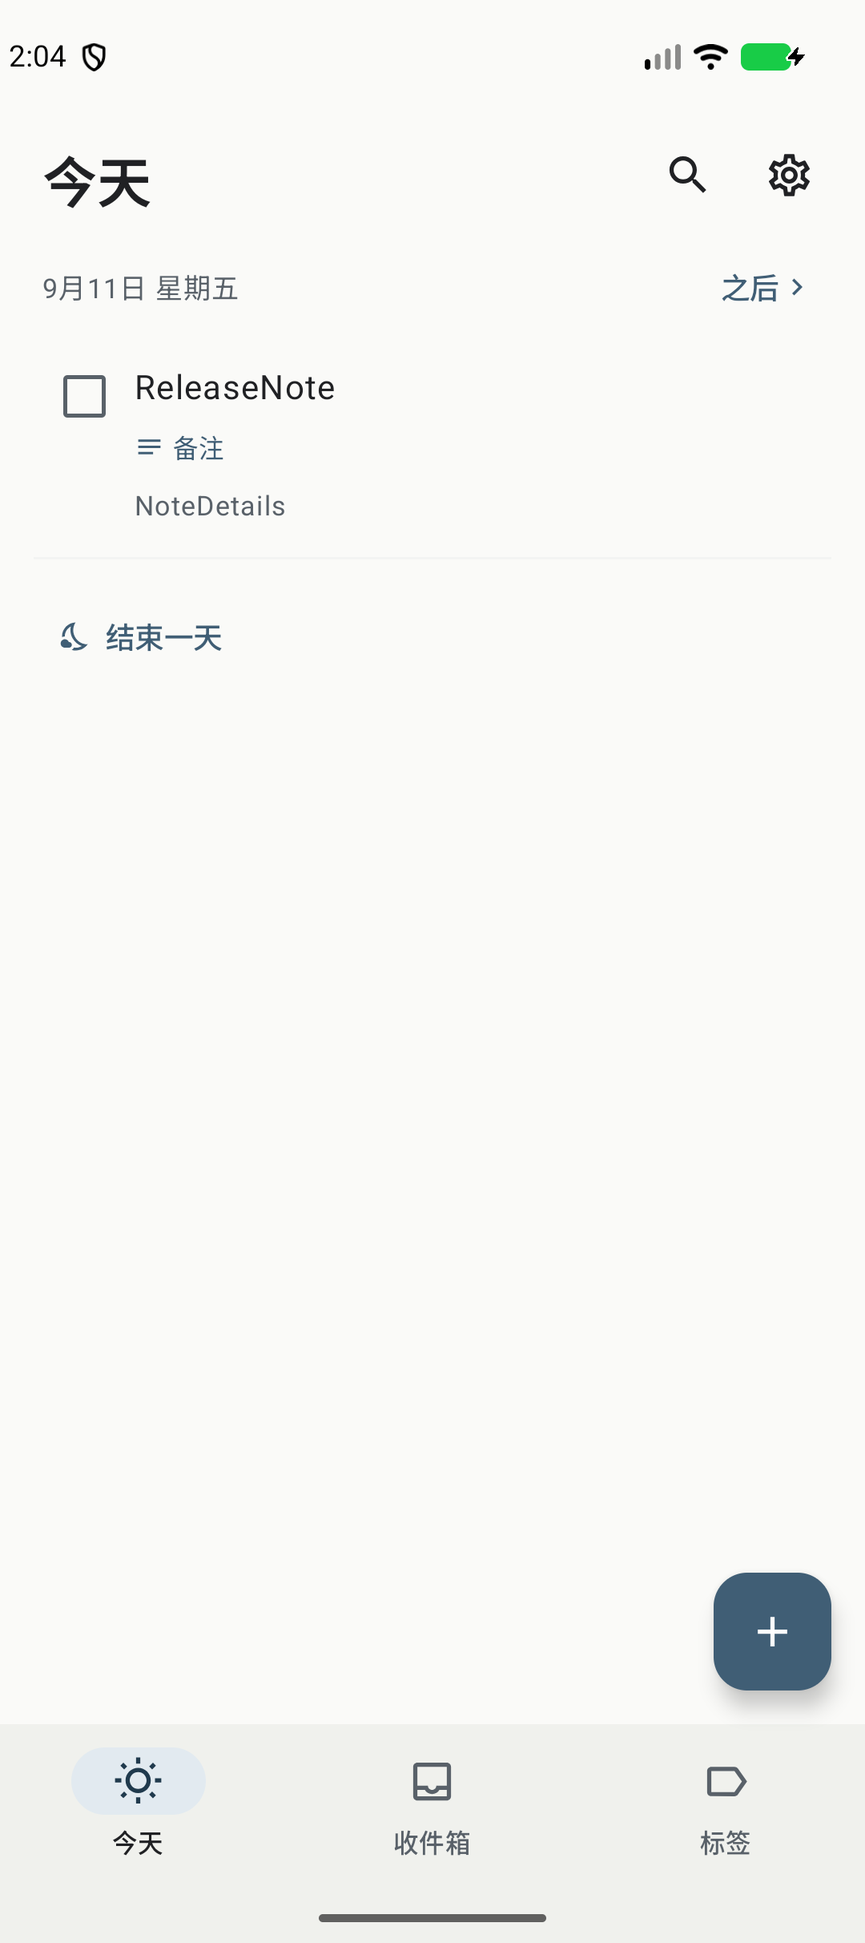
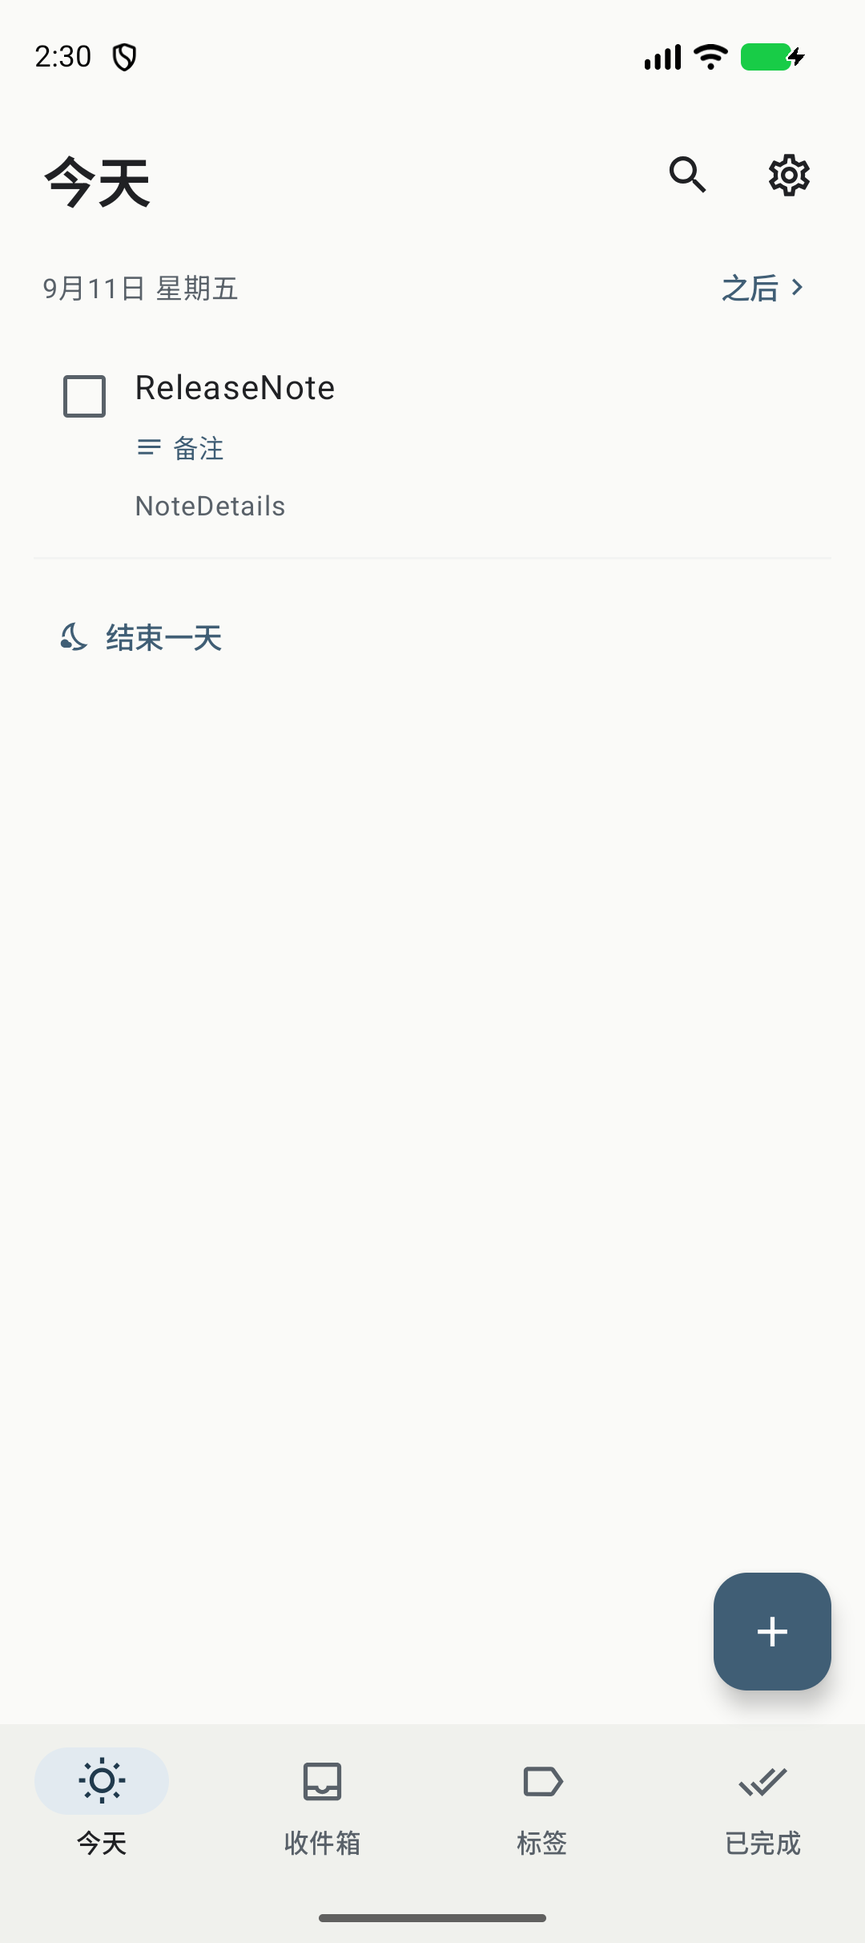
Refine completion feedback and move history to bottom navigation

diff --git a/app/src/main/java/app/todo/local/MainActivity.kt b/app/src/main/java/app/todo/local/MainActivity.kt
@@ -80,6 +80,18 @@ fun TodoApp(requestedTask: String? = null, consumed: () -> Unit = {}) {
     var appearance by remember { mutableStateOf(settings.getString("appearance", "跟随系统")!!) }
     var reduce by remember { mutableStateOf(settings.getBoolean("reduce", false)) }
     var lockTitle by remember { mutableStateOf(settings.getBoolean("lock_title", false)) }
+    var haptics by remember { mutableStateOf(settings.getBoolean("completion_haptics", true)) }
+    var sound by remember { mutableStateOf(settings.getBoolean("completion_sound", true)) }
+    val feedback = remember(context) { CompletionFeedback(context) }
+    val feedbackView = LocalView.current
+    val currentHaptics by rememberUpdatedState(haptics)
+    val currentSound by rememberUpdatedState(sound)
+    DisposableEffect(feedback) { onDispose { feedback.release() } }
+    LaunchedEffect(vm, feedback, feedbackView) {
+        vm.completionFeedback.collect { completed ->
+            if (feedbackView.hasWindowFocus()) feedback.play(feedbackView, completed, currentHaptics, currentSound)
+        }
+    }
     val isDark = appearance == "深色" || appearance == "跟随系统" && isSystemInDarkTheme()
     val reducedMotion = reduce || Settings.Global.getFloat(context.contentResolver, Settings.Global.ANIMATOR_DURATION_SCALE, 1f) == 0f
     val window = (context as? android.app.Activity)?.window
@@ -128,7 +140,7 @@ fun TodoApp(requestedTask: String? = null, consumed: () -> Unit = {}) {
                 val buffer = CharArray(8192); val text = StringBuilder(); while (true) { val n = reader.read(buffer); if (n < 0) break; require(text.length + n <= 30_000_000); text.append(buffer, 0, n) }; BackupCodec.decode(text.toString()) } }
             } catch (_: Exception) { vm.message("无法恢复：备份损坏、引用不完整或版本不兼容；现有数据未改变") } }
         }
-        val primary = page in listOf("今天", "收件箱", "标签")
+        val primary = page in listOf("今天", "收件箱", "标签", "已完成")
         BackHandler(!primary && draft == null) { page = if (page.startsWith("tag:") || page in listOf("全部待办", "无标签")) "标签" else "今天" }
         fun add() { vm.draft(EditorDraft(Task(scheduleDate = if (page == "今天") now.toLocalDate().toString() else null), if (page == "标签") tags.filter { it.id == expandedTag }.map { it.name } else emptyList(), null, true)) }
         val title = if (page.startsWith("tag:")) tags.firstOrNull { it.id == page.removePrefix("tag:") }?.name ?: "标签" else page
@@ -156,7 +168,7 @@ fun TodoApp(requestedTask: String? = null, consumed: () -> Unit = {}) {
 
                 }
             } },
-            bottomBar = { NavigationBar { listOf("今天" to Icons.Outlined.WbSunny, "收件箱" to Icons.Outlined.Inbox, "标签" to Icons.Outlined.Label).forEach { (name, icon) ->
+            bottomBar = { NavigationBar { listOf("今天" to Icons.Outlined.WbSunny, "收件箱" to Icons.Outlined.Inbox, "标签" to Icons.Outlined.Label, "已完成" to Icons.Outlined.DoneAll).forEach { (name, icon) ->
                 NavigationBarItem(selected = page == name || name == "标签" && (page.startsWith("tag:") || page == "全部待办" || page == "无标签"), onClick = { page = name }, icon = { Icon(icon, null) }, label = { Text(name) })
             } } },
             floatingActionButton = { if (page !in listOf("设置", "搜索", "已完成") && !(page == "今天" && todayHidden) && loaded && !error) FloatingActionButton(onClick = { add() }, containerColor = MaterialTheme.colorScheme.primary, contentColor = MaterialTheme.colorScheme.onPrimary, shape = RoundedCornerShape(16.dp)) { Icon(Icons.Outlined.Add, "添加任务") } }
@@ -164,7 +176,7 @@ fun TodoApp(requestedTask: String? = null, consumed: () -> Unit = {}) {
             val body = Modifier.padding(padding).fillMaxSize()
             if (error) Column(body.padding(24.dp)) { Text("无法读取本地数据库，数据未被清除。"); Button(onClick = { vm.observe() }) { Text("重试") } }
             else if (!loaded) Box(body, contentAlignment = Alignment.Center) { CircularProgressIndicator() }
-            else if (page == "设置") SettingsPage(body, appearance, { appearance = it; settings.edit().putString("appearance", it).apply() }, reduce, { reduce = it; settings.edit().putBoolean("reduce", it).apply() }, lockTitle, { lockTitle = it; settings.edit().putBoolean("lock_title", it).apply() }, vm, statusTick, { exportConfirm = true }, { import.launch(arrayOf("application/json", "text/plain", "application/octet-stream")) }, { page = "已完成" })
+            else if (page == "设置") SettingsPage(body, appearance, { appearance = it; settings.edit().putString("appearance", it).apply() }, reduce, { reduce = it; settings.edit().putBoolean("reduce", it).apply() }, lockTitle, { lockTitle = it; settings.edit().putBoolean("lock_title", it).apply() }, vm, statusTick, { exportConfirm = true }, { import.launch(arrayOf("application/json", "text/plain", "application/octet-stream")) }, haptics, { haptics = it; settings.edit().putBoolean("completion_haptics", it).apply() }, sound, { sound = it; settings.edit().putBoolean("completion_sound", it).apply() })
             else if (page == "今天" && todayHidden) Column(body.padding(horizontal = 24.dp, vertical = 40.dp), horizontalAlignment = Alignment.CenterHorizontally) {
                 Icon(Icons.Outlined.NightsStay, null, Modifier.size(32.dp), tint = MaterialTheme.colorScheme.primary)
                 Text("今天已收尾", Modifier.padding(top = 16.dp), style = MaterialTheme.typography.titleMedium)
@@ -265,8 +277,7 @@ fun TodoApp(requestedTask: String? = null, consumed: () -> Unit = {}) {
 @Composable fun TaskRow(record: TaskRecord, now: LocalDateTime, enabled: Boolean, complete: () -> Unit, edit: () -> Unit) {
     val t = record.task
     Row(Modifier.fillMaxWidth().heightIn(min = 56.dp), verticalAlignment = Alignment.Top) {
-        val view = LocalView.current
-        Checkbox(t.completedAt != null, { complete(); view.performHapticFeedback(android.view.HapticFeedbackConstants.VIRTUAL_KEY) }, enabled = enabled,
+        Checkbox(t.completedAt != null, { complete() }, enabled = enabled,
             modifier = Modifier.padding(top = 4.dp).semantics { contentDescription = if (t.completedAt == null) "完成 ${t.title}" else "恢复 ${t.title}" })
         Column(Modifier.weight(1f).clickable(onClick = edit).padding(top = 12.dp, bottom = 12.dp)) {
             Text(t.title, maxLines = 2, overflow = TextOverflow.Ellipsis, fontSize = 16.sp, textDecoration = if (t.completedAt != null) TextDecoration.LineThrough else null)

diff --git a/app/src/androidTest/java/app/todo/local/WorkflowTest.kt b/app/src/androidTest/java/app/todo/local/WorkflowTest.kt
@@ -38,8 +38,13 @@ class WorkflowTest {
         ui.onNodeWithText("整理本周的阅读笔记").assertIsDisplayed()
         screenshot("02-today-task-light")
         ui.onNodeWithContentDescription("完成 整理本周的阅读笔记").performClick()
-        ui.waitUntil(8_000) { ui.onAllNodesWithText("撤销").fetchSemanticsNodes().isNotEmpty() }
-        ui.onNodeWithText("撤销").performClick()
+        ui.waitUntil(8_000) { ui.onAllNodesWithText("今天完成 1 项").fetchSemanticsNodes().isNotEmpty() }
+        ui.onNodeWithText("撤销").assertDoesNotExist()
+        ui.onNodeWithText("已完成").performClick()
+        ui.onNodeWithContentDescription("恢复 整理本周的阅读笔记").performClick()
+        ui.waitUntil(8_000) { ui.onAllNodesWithText("还没有已完成的任务。").fetchSemanticsNodes().isNotEmpty() }
+        ui.onNodeWithText("已恢复").assertDoesNotExist()
+        ui.onNodeWithText("今天").performClick()
         ui.waitUntil(8_000) { ui.onAllNodesWithText("整理本周的阅读笔记").fetchSemanticsNodes().isNotEmpty() }
         ui.onNodeWithText("整理本周的阅读笔记").assertIsDisplayed()
         val repo = (ui.activity.application as TodoApplication).repository
@@ -97,6 +102,17 @@ class WorkflowTest {
         // Leave test settings as they were for repeatability.
         ui.onNodeWithContentDescription("设置").performClick(); ui.onNodeWithText("跟随系统").performClick()
     }
+    @Test fun completionFeedbackSettingsPersist() {
+        ui.onNodeWithContentDescription("设置").performClick()
+        ui.onAllNodesWithText("已完成").assertCountEquals(1) // Only the bottom navigation entry.
+        ui.onNodeWithContentDescription("操作震动").performScrollTo().assertIsOn().performClick()
+        ui.onNodeWithContentDescription("完成提示音").performScrollTo().assertIsOn().performClick()
+        ui.activityRule.scenario.recreate()
+        ui.onNodeWithContentDescription("操作震动").performScrollTo().assertIsOff()
+        ui.onNodeWithContentDescription("完成提示音").performScrollTo().assertIsOff()
+        ui.onNodeWithContentDescription("操作震动").performScrollTo().performClick()
+        ui.onNodeWithContentDescription("完成提示音").performScrollTo().performClick()
+    }
     @Test fun navigationWithMixedDatesAndCompletionHistory() {
         val repo = (ui.activity.application as TodoApplication).repository
         val today = java.time.LocalDate.now()
@@ -115,7 +131,6 @@ class WorkflowTest {
             ui.onNodeWithText(future.title).assertIsDisplayed()
             ui.onNodeWithText(active.title).assertDoesNotExist()
             ui.onNodeWithText("今天").performClick()
-            ui.onNodeWithContentDescription("设置").performClick()
             ui.onNodeWithText("已完成").performClick()
             ui.onNodeWithText(done.title).assertIsDisplayed()
             ui.onNodeWithText(active.title).assertDoesNotExist()

diff --git a/app/src/main/java/app/todo/local/Forms.kt b/app/src/main/java/app/todo/local/Forms.kt
@@ -269,14 +269,15 @@ fun EditorSheet(draft: EditorDraft, tags: List<Tag>, busy: Boolean, vm: TodoView
 fun openNotificationSettings(context: android.content.Context) { runCatching { context.startActivity(Intent(Settings.ACTION_APP_NOTIFICATION_SETTINGS).putExtra(Settings.EXTRA_APP_PACKAGE, context.packageName)) } }
 fun openExactSettings(context: android.content.Context) { if (Build.VERSION.SDK_INT >= 31) runCatching { context.startActivity(Intent(Settings.ACTION_REQUEST_SCHEDULE_EXACT_ALARM, Uri.parse("package:${context.packageName}"))) } }
 @OptIn(ExperimentalLayoutApi::class)
-@Composable fun SettingsPage(modifier: Modifier, appearance: String, setAppearance: (String) -> Unit, reduce: Boolean, setReduce: (Boolean) -> Unit, lockTitle: Boolean, setLockTitle: (Boolean) -> Unit, vm: TodoViewModel, tick: Int, export: () -> Unit, import: () -> Unit, openCompleted: (() -> Unit)? = null) {
+@Composable fun SettingsPage(modifier: Modifier, appearance: String, setAppearance: (String) -> Unit, reduce: Boolean, setReduce: (Boolean) -> Unit, lockTitle: Boolean, setLockTitle: (Boolean) -> Unit, vm: TodoViewModel, tick: Int, export: () -> Unit, import: () -> Unit, haptics: Boolean, setHaptics: (Boolean) -> Unit, sound: Boolean, setSound: (Boolean) -> Unit) {
     val context = LocalContext.current
     val status = remember(tick) { vm.scheduler.status() }
     Column(modifier.verticalScroll(rememberScrollState()).padding(20.dp), verticalArrangement = Arrangement.spacedBy(12.dp)) {
-        TextButton(onClick = { openCompleted?.invoke() }) { Icon(Icons.Outlined.DoneAll, null); Spacer(Modifier.width(8.dp)); Text("已完成") }
         Text("外观", style = MaterialTheme.typography.titleMedium)
         FlowRow(horizontalArrangement = Arrangement.spacedBy(8.dp)) { listOf("跟随系统", "浅色", "深色").forEach { FilterChip(appearance == it, { setAppearance(it) }, label = { Text(it) }) } }
         SettingSwitch("减少动画", "默认跟随系统；开启后直接呈现状态变化。", reduce, setReduce)
+        SettingSwitch("操作震动", "完成和恢复任务时轻触反馈", haptics, setHaptics)
+        SettingSwitch("完成提示音", "静音或勿扰时不播放", sound, setSound)
         SettingSwitch("锁屏显示任务标题", "默认隐藏任务内容，并尊重系统隐私设置。", lockTitle, setLockTitle)
         HorizontalDivider(Modifier.padding(vertical = 8.dp))
         Text("提醒状态", style = MaterialTheme.typography.titleMedium)

diff --git a/app/src/main/java/app/todo/local/CompletionFeedback.kt b/app/src/main/java/app/todo/local/CompletionFeedback.kt
@@ -1,0 +1,33 @@
+package app.todo.local
+
+import android.app.NotificationManager
+import android.content.Context
+import android.media.AudioManager
+import android.media.ToneGenerator
+import android.os.Build
+import android.view.HapticFeedbackConstants
+import android.view.View
+
+/** Feedback is emitted only after the task change is saved successfully. */
+class CompletionFeedback(private val context: Context) {
+    private var tone: ToneGenerator? = null
+
+    fun play(view: View, completed: Boolean, haptics: Boolean, sound: Boolean) {
+        if (haptics) runCatching {
+            view.performHapticFeedback(if (completed && Build.VERSION.SDK_INT >= 30)
+                HapticFeedbackConstants.CONFIRM else HapticFeedbackConstants.VIRTUAL_KEY)
+        }
+        if (!completed || !sound) return
+        runCatching {
+            val audio = context.getSystemService(AudioManager::class.java)
+            val notifications = context.getSystemService(NotificationManager::class.java)
+            if (audio.ringerMode != AudioManager.RINGER_MODE_NORMAL ||
+                audio.getStreamVolume(AudioManager.STREAM_SYSTEM) == 0 ||
+                notifications.currentInterruptionFilter != NotificationManager.INTERRUPTION_FILTER_ALL) return
+            val player = tone ?: ToneGenerator(AudioManager.STREAM_SYSTEM, 25).also { tone = it }
+            player.startTone(ToneGenerator.TONE_PROP_ACK, 100)
+        }
+    }
+
+    fun release() { runCatching { tone?.release() }; tone = null }
+}

diff --git a/app/src/main/java/app/todo/local/TodoViewModel.kt b/app/src/main/java/app/todo/local/TodoViewModel.kt
@@ -29,6 +29,7 @@ class TodoViewModel(app: Application) : AndroidViewModel(app) {
     val readError = MutableStateFlow(false)
     val busy = MutableStateFlow(false)
     val messages = MutableSharedFlow<Pair<String, String?>>(extraBufferCapacity = 10)
+    val completionFeedback = MutableSharedFlow<Boolean>(extraBufferCapacity = 1)
     private val drafts = app.getSharedPreferences("drafts", 0)
     val editor = MutableStateFlow(runCatching { drafts.getString("editor", null)?.let(EditorDraft::decode) }.getOrNull())
     init { observe() }
@@ -59,6 +60,6 @@ class TodoViewModel(app: Application) : AndroidViewModel(app) {
         }
     }
     fun save() { val d = editor.value ?: return; perform(block = { repo.save(d.task, d.names, d.reminder, d.isNew) }, after = { draft(null) }) }
-    fun complete(t: Task, value: Boolean) = perform(block = { repo.complete(t.id, value) }, after = { messages.tryEmit((if (value) "已完成" else "已恢复") to if (value) t.id else null) })
+    fun complete(t: Task, value: Boolean) = perform(block = { repo.complete(t.id, value) }, after = { completionFeedback.tryEmit(value) })
     fun resume() { viewModelScope.launch(Dispatchers.IO) { runCatching { scheduler.reconcile() }.onFailure { message("提醒恢复失败，请在设置中重试") } } }
 }

diff --git a/README.md b/README.md
@@ -18,8 +18,9 @@
 - **标签整理**：多标签分类，在当前页面展开标签下的任务。
 - **任务信息**：行内显示日期、提醒和标签；有备注时显示标记与一行预览。
 - **结束一天**：收起今天的列表，随时点击“重新展开今天”恢复。任务、日期与提醒保持原样；次日自动恢复显示。
-- **搜索与已完成**：查找任务，在设置中查看完成记录。
+- **搜索与已完成**：查找任务，从底部导航直接查看完成记录，点击勾选框恢复任务。
 - **本地提醒与备份**：系统通知提醒，JSON 导出与恢复；无需账号，应用不申请网络权限。
+- **完成反馈**：完成与恢复不弹提示条；可选轻微震动与完成提示音，静音或勿扰时不播放提示音。
 - **外观**：浅色、深色与跟随系统，支持减少动画。
 
 ## 📱 预览
@@ -29,13 +30,13 @@
   <img src="docs/assets/today-closed.png" width="260" alt="结束一天后可重新展开今天" />
 </p>
 
-截图来自 1.1.0 release 模拟器测试；新安装不含示例任务。
+截图来自 1.1.1 release 模拟器测试；新安装不含示例任务。
 
 ## 📦 安装
 
-在 [Releases](https://github.com/shihuaidexianyu/todo/releases/latest) 下载 `todo-1.1.0-release.apk`，在 Android 10 或以上设备安装。AAB 用于分发构建，手机安装请选择 APK。
+在 [Releases](https://github.com/shihuaidexianyu/todo/releases/latest) 下载 `todo-1.1.1-release.apk`，在 Android 10 或以上设备安装。AAB 用于分发构建，手机安装请选择 APK。
 
-当前版本 **1.1.0**（versionCode **3**），沿用此前 release 签名，可覆盖升级。Debug 版签名不同，迁移前请先在设置中导出备份。
+当前版本 **1.1.1**（versionCode **4**），沿用此前 release 签名，可覆盖升级。Debug 版签名不同，迁移前请先在设置中导出备份。
 
 ## 🧱 技术栈
 
@@ -65,7 +66,7 @@
 
 其他系统可使用 `./gradlew assembleDebug testDebugUnitTest lintDebug`。Release 签名配置及输出位置见 [构建说明](docs/build.md)。设备测试会清空测试安装的数据，并调整本应用的提醒权限，请使用专用测试环境。
 
-1.1.0 已通过 28 项单元测试、6 项界面工作流测试及 release 安装回归；Lint 无错误。覆盖范围见 [验证记录](docs/verification.md)。
+1.1.1 已通过 28 项单元测试、6 项界面工作流测试及 release 安装回归；Lint 无错误。覆盖范围见 [验证记录](docs/verification.md)。
 
 ## 🗂 代码结构
 
@@ -80,4 +81,4 @@ app/src/main/java/app/todo/local/
 └── Motion.kt          动画设置
 ```
 
-[产品规格](todo-product-spec.md) · [UI 设计记录](docs/ui-research/design-notes.md)。原规格中的日终改期流程已由 1.1.0 的“仅收起今天”交互替代。
+[产品规格](todo-product-spec.md) · [UI 设计记录](docs/ui-research/design-notes.md)。原规格中的日终改期流程已由 1.1.1 的“仅收起今天”交互替代。

diff --git a/docs/verification.md b/docs/verification.md
@@ -1,20 +1,20 @@
-# 1.1.0 验证记录
+# 1.1.1 验证记录
 
-测试环境：Windows、Pixel 9a Android 17 / API 37 模拟器。以下结果不代表已覆盖不同厂商的真机与输入法。
+测试环境：Windows、Pixel 9a Android 17 / API 37 模拟器。以下结果不代表已覆盖不同厂商的真机与输入法，震动强度与实际听感需在真机确认。
 
 | 检查 | 结果 |
 |---|---|
-| Release APK / AAB | 构建成功，versionCode 3 |
+| Release APK / AAB | 构建成功，versionCode 4 |
 | JVM 单元测试 | 28 项通过 |
 | Compose 界面工作流 | 6 项通过 |
-| Release Lint | 0 错误、28 警告 |
-| 1.0.1 → 1.1.0 | 同签名覆盖安装成功 |
+| Release Lint | 0 错误、30 警告 |
+| 1.1.0 → 1.1.1 | 同签名覆盖安装成功 |
 | 最终 Release UI 回归 | 通过；应用崩溃缓冲区为空 |
 
-界面工作流覆盖：创建与今天截止、标签当页展开、备注标记和预览、结束一天前后任务记录一致、重建后保留收起状态、其他页面访问任务、重新展开今天、深色模式、200% 字体与横屏、设置和已完成往返导航。
+界面工作流覆盖：创建与今天截止、标签当页展开、备注标记和预览、结束一天前后任务记录一致、重建后保留收起状态、其他页面访问任务、重新展开今天、深色模式、设置和已完成往返导航，以及反馈开关重建后的持久化。
 
-最终 release 另行检查了备注创建与展示、收起后重启、标签中访问隐藏任务、重新展开、直接进入设置及已完成页面。截图见 README。
+最终 release 另行检查了备注创建与展示、收起后重启、标签中访问隐藏任务、重新展开、完成和恢复无提示条、底部已完成入口及直接进入设置。截图见 README。
 
-模拟器在早期测试中出现过 System UI 无响应弹窗，关闭后完成最终 release 回归。尚未覆盖 Android 10 真机、厂商后台限制以及各类第三方输入法。
+界面测试前四项通过后，200% 字体旋转测试在横屏等待环节未结束，已中止该轮并单独运行剩余两项完成与导航测试。横屏截图已检查，布局可用，但这项自动化不计入通过数。尚未覆盖 Android 10 真机、厂商后台限制以及各类第三方输入法。
 
-原始构建、测试、签名和截图证据保留在本地 `artifacts/release-validation/1.1.0/`。发布包的校验和随 GitHub Release 提供。
+原始构建、测试、签名和截图证据保留在本地 `artifacts/release-validation/1.1.1/`。发布包的校验和随 GitHub Release 提供。

diff --git a/docs/release.md b/docs/release.md
@@ -1,3 +1,17 @@
+# todo 1.1.1
+
+[下载 APK / AAB](https://github.com/shihuaidexianyu/todo/releases/tag/v1.1.1) · versionCode 4，可覆盖原 release 安装。
+
+- 完成和恢复任务不再弹出提示条。
+- 加入轻微震动与短促完成提示音，在设置中可分别关闭；静音与勿扰时不播放声音。
+- “已完成”移至底部导航，直接查看与恢复任务。
+
+反馈仅在任务保存成功后触发。振动使用 [Android 触觉反馈接口](https://developer.android.com/develop/ui/views/haptics/haptic-feedback)，声音使用 [ToneGenerator](https://developer.android.com/reference/android/media/ToneGenerator)。
+
+验证范围见 [验证记录](verification.md)。
+
+---
+
 # todo 1.1.0
 
 [下载 APK / AAB](https://github.com/shihuaidexianyu/todo/releases/tag/v1.1.0) · versionCode 3，沿用原 release 签名，可覆盖安装。

diff --git a/docs/build.md b/docs/build.md
@@ -4,9 +4,9 @@
 
 Windows 执行 `scripts/build-release.ps1`，输出到 `artifacts/`：
 
-- `todo-1.1.0-release.apk`
-- `todo-1.1.0-release.aab`
-- `release-validation/1.1.0/`：签名校验、SHA-256 与 R8 混淆映射。
+- `todo-1.1.1-release.apk`
+- `todo-1.1.1-release.aab`
+- `release-validation/1.1.1/`：签名校验、SHA-256 与 R8 混淆映射。
 
 首次运行发布脚本会在 `.signing/` 生成本机独立密钥和 `keystore.properties`，后续复用。整个目录已被 Git 忽略，应单独安全备份；后续覆盖更新需要原签名。
 

diff --git a/artifacts/README.md b/artifacts/README.md
@@ -1,5 +1,5 @@
 # 本地构建产物
 
-当前版本 1.1.0。APK、AAB、测试日志、混淆映射和验收截图由构建与测试生成，保留在本地，不提交 Git。
+当前版本 1.1.1。APK、AAB、测试日志、混淆映射和验收截图由构建与测试生成，保留在本地，不提交 Git。
 
 安装包请从 [GitHub Releases](https://github.com/shihuaidexianyu/todo/releases/latest) 下载。构建步骤见 [构建说明](../docs/build.md)。
